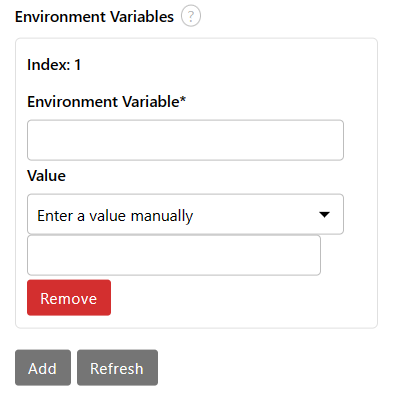
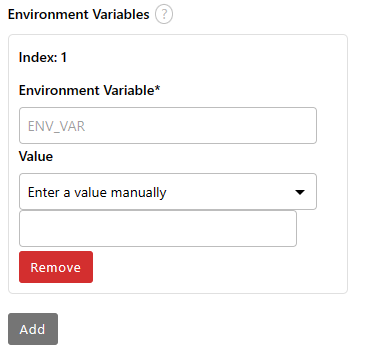
fix some bugs

diff --git a/elyra/pipeline/wfp/processor_wfp.py b/elyra/pipeline/wfp/processor_wfp.py
@@ -54,8 +54,14 @@ class WfpPipelineProcessor(RuntimePipelineProcessor):
             pipeline_definition["pipelines"][0]["app_data"]["name"] = Path(str(path)).stem
             pipeline_definition["pipelines"][0]["app_data"]["source"] = path
 
-            response = await PipelineValidationManager.instance().validate(pipeline_definition)
+            for node in pipeline_definition.get("pipelines")[0].get("nodes"):
+                component_parameters = node.get("app_data").get("component_parameters")
+                for key, value in component_parameters.items():
+                    if isinstance(value, dict) and value.get("widget") == "file":
+                        normpath = os.path.normpath(os.path.join(pipeline_definition.get("basepath"), value.get("value")))
+                        component_parameters[key]["value"] = normpath
 
+            response = await PipelineValidationManager.instance().validate(pipeline_definition)
             if not response.has_fatal:
                 pipeline = PipelineParser(root_dir=root_dir, parent=parent).parse(pipeline_definition)
                 await PipelineProcessorManager.instance().export(
@@ -86,7 +92,6 @@ class WfpPipelineProcessor(RuntimePipelineProcessor):
                     message="The yaml file is not an exported file for the pipeline.",
                     runtime="WORKFLOW",
                 )
-
         return response, pipeline_input_parameters
 
     @staticmethod

diff --git a/elyra/pipeline/component_parameter.py b/elyra/pipeline/component_parameter.py
@@ -332,7 +332,6 @@ class EnvironmentVariable(ElyraPropertyListItem):
     def get_schema(cls) -> Dict[str, Any]:
         """Build the JSON schema for an Elyra-owned component property"""
         schema = super().get_schema()
-        schema["uihints"] = {"canRefresh": True}
         return schema
 
     def get_value_for_dict_entry(self) -> str:
